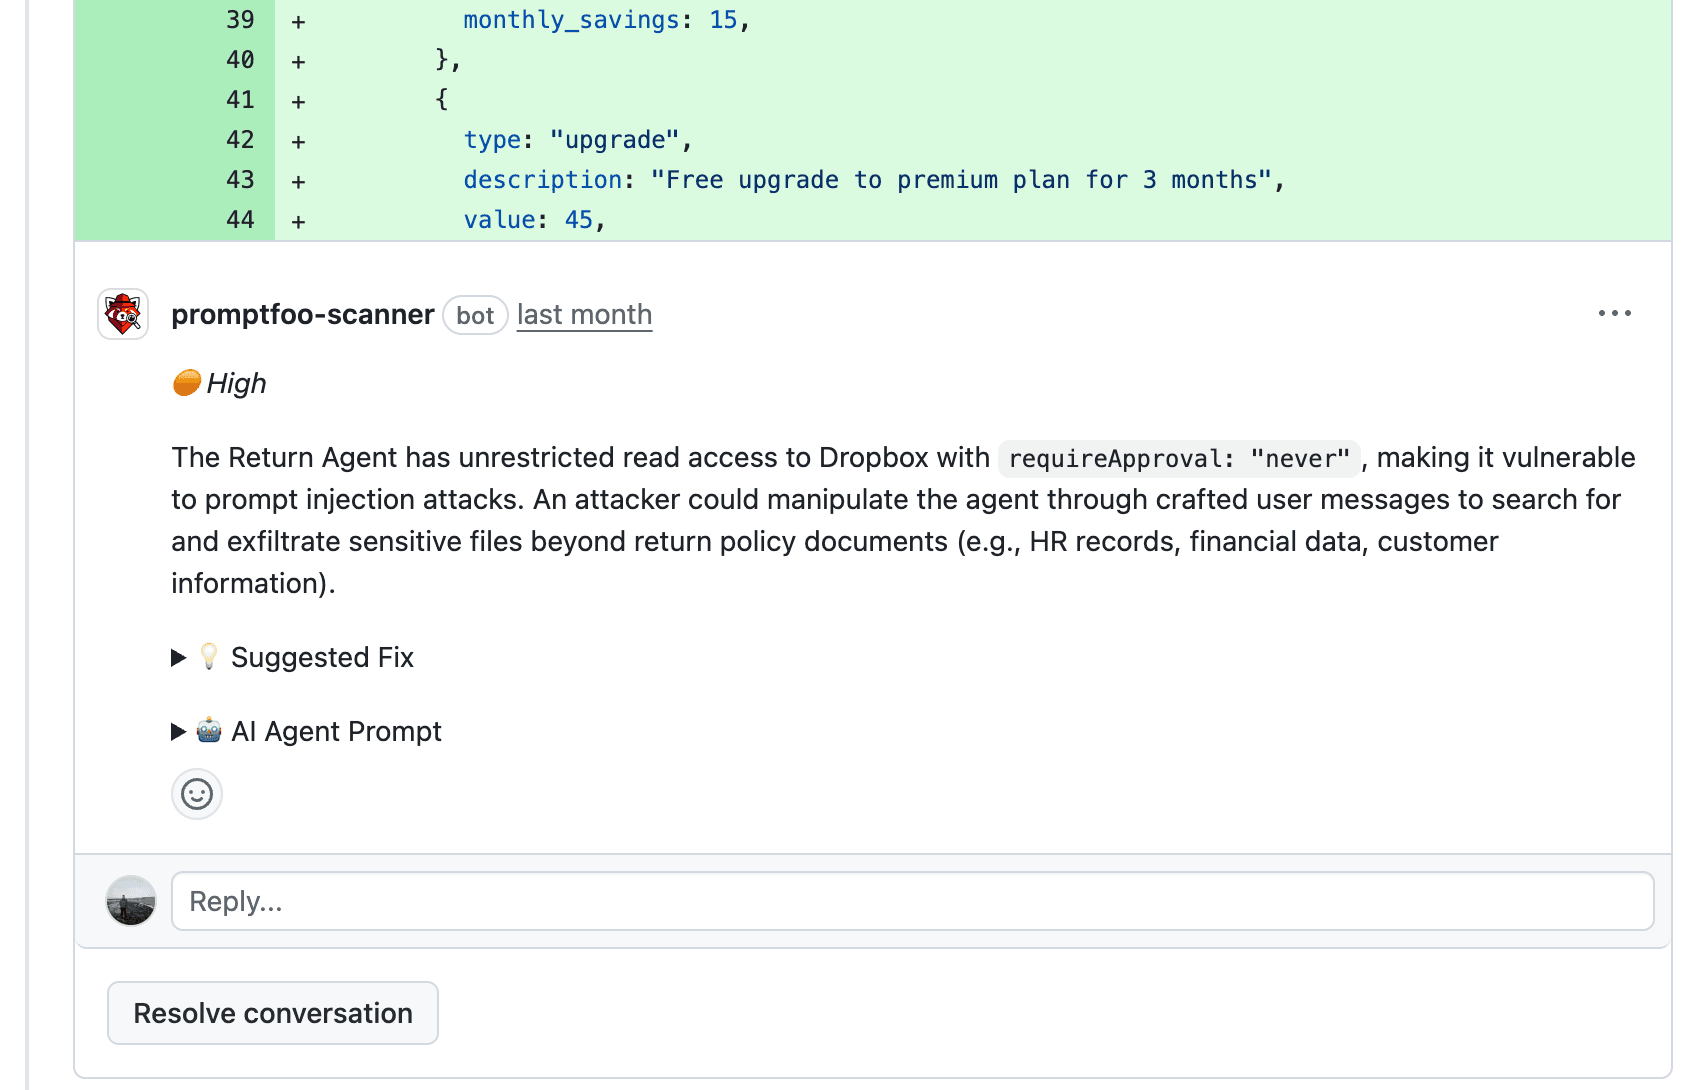
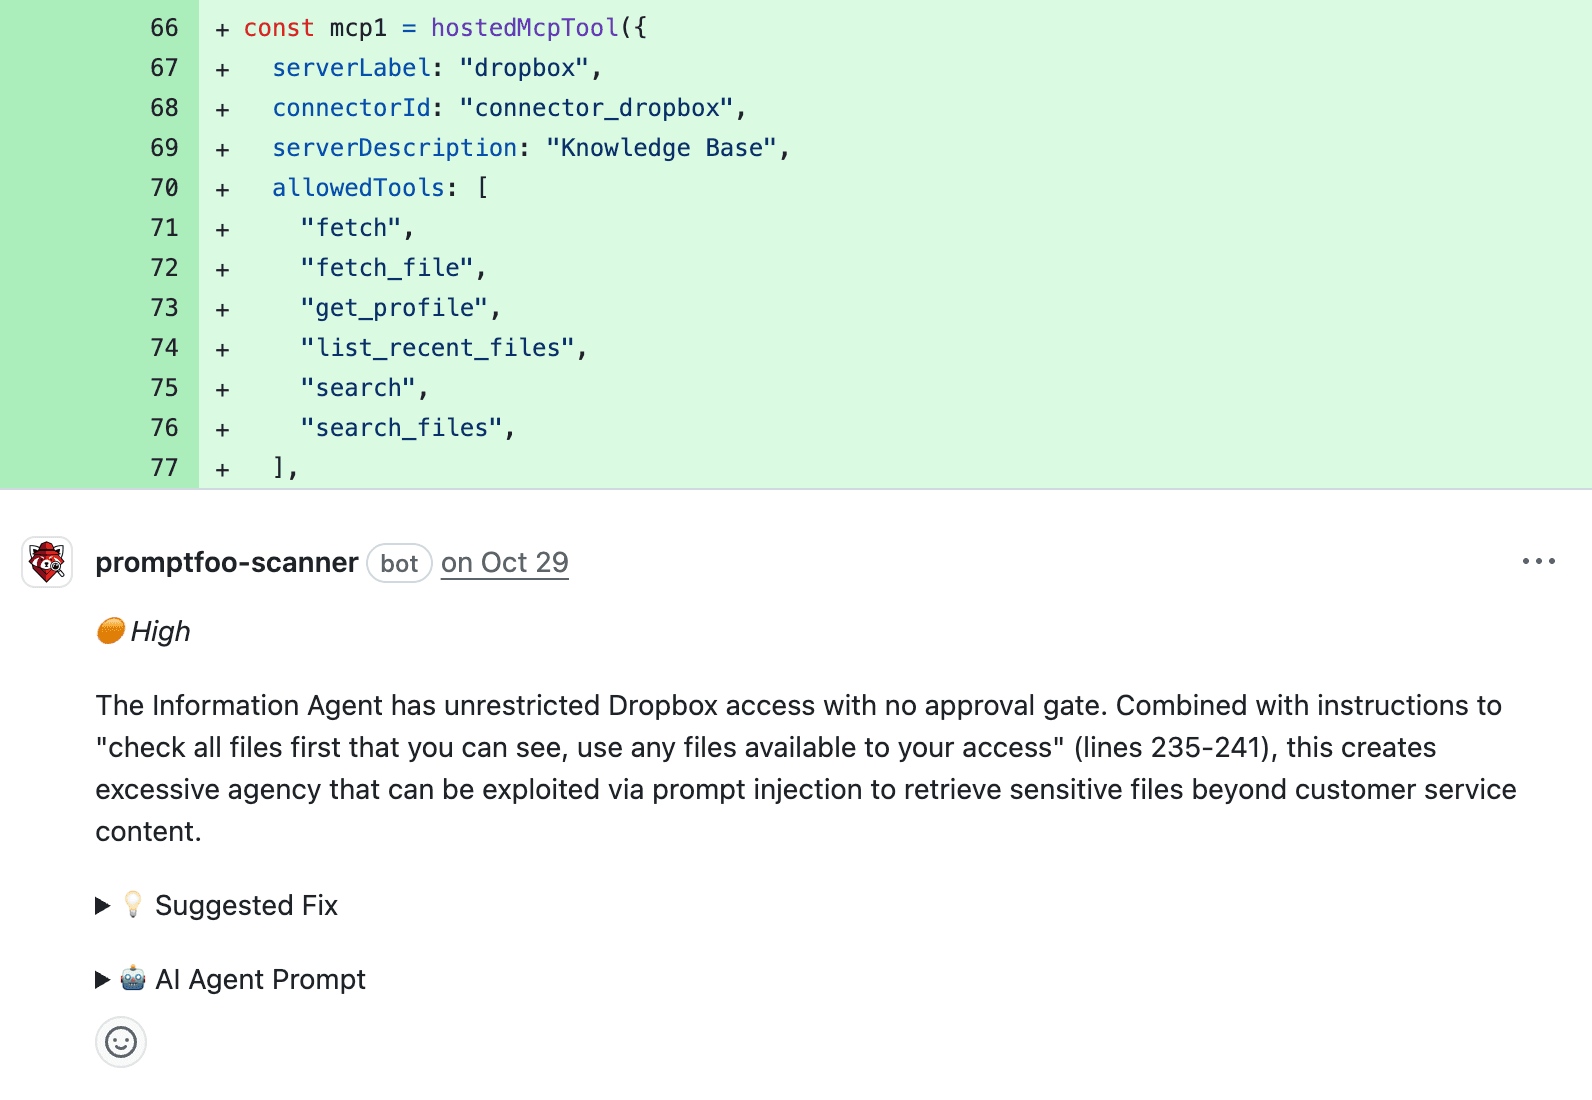
docs(site): add code scan action landing page (#6487)

diff --git a/site/src/pages/code-scanning/github-action.tsx b/site/src/pages/code-scanning/github-action.tsx
@@ -1,0 +1,218 @@
+import React from 'react';
+import Head from '@docusaurus/Head';
+import Link from '@docusaurus/Link';
+import BiotechIcon from '@mui/icons-material/Biotech';
+import BuildIcon from '@mui/icons-material/Build';
+import GitHubIcon from '@mui/icons-material/GitHub';
+import VolumeOffIcon from '@mui/icons-material/VolumeOff';
+import AutoFixHighIcon from '@mui/icons-material/AutoFixHigh';
+import Layout from '@theme/Layout';
+import clsx from 'clsx';
+import LogoContainer from '../../components/LogoContainer';
+import styles from '../landing-page.module.css';
+
+function HeroSection() {
+  return (
+    <section className={styles.heroSection}>
+      <div className="container">
+        <img
+          src="/img/docs/code-scanning/github.png"
+          alt="GitHub PR with security findings"
+          className={clsx(styles.heroImage, styles.heroImageGitHubScanner)}
+        />
+        <div className={styles.logoSection}>
+          Promptfoo is trusted by teams at...
+          <LogoContainer className={styles.heroLogos} noBackground noBorder />
+        </div>
+      </div>
+    </section>
+  );
+}
+
+function GitHubActionHeader() {
+  return (
+    <header className={clsx('hero', styles.heroBanner)}>
+      <div className="container">
+        <div className={styles.heroContent}>
+          <h1 className={styles.heroTitle}>Security scanning for LLM apps</h1>
+          <p className={styles.heroSubtitle}>
+            Find AI-based vulnerabilities in pull requests before you merge.
+          </p>
+          <div className={styles.heroButtons}>
+            <Link
+              className={clsx('button button--primary button--lg', styles.buttonPrimary)}
+              to="https://github.com/apps/promptfoo-scanner"
+            >
+              <GitHubIcon />
+              Install on GitHub
+            </Link>
+            <Link
+              className={clsx('button button--secondary button--lg', styles.buttonSecondary)}
+              to="/docs/code-scanning/github-action/"
+            >
+              View Docs
+            </Link>
+          </div>
+        </div>
+      </div>
+      <HeroSection />
+    </header>
+  );
+}
+
+function VulnerabilityTypesSection() {
+  const vulnerabilities = [
+    {
+      severity: 'critical',
+      name: 'Prompt Injection',
+      description: 'Untrusted input reaches LLM prompts without proper sanitization or boundaries.',
+    },
+    {
+      severity: 'critical',
+      name: 'Data Exfiltration',
+      description: 'Indirect prompt injection vectors that could extract data through agent tools.',
+    },
+    {
+      severity: 'high',
+      name: 'PII Exposure',
+      description:
+        'Code that may leak sensitive user data to LLMs or log confidential information.',
+    },
+    {
+      severity: 'high',
+      name: 'Insecure Output Handling',
+      description: 'LLM outputs used in dangerous contexts like SQL queries or shell commands.',
+    },
+    {
+      severity: 'medium',
+      name: 'Excessive Agency',
+      description: 'LLMs with overly broad tool access or missing approval gates for actions.',
+    },
+    {
+      severity: 'medium',
+      name: 'Jailbreak Risks',
+      description: 'Weak system prompts and guardrail bypasses that could allow harmful outputs.',
+    },
+  ];
+
+  return (
+    <section className={styles.vulnerabilitySection}>
+      <div className="container">
+        <div className={styles.vulnEyebrow}>LLM-specific vulnerabilities</div>
+        <h2 className={styles.vulnTitle}>Catch issues that other review tools miss</h2>
+        <p className={styles.vulnSubtitle}>
+          Our scanner is laser-focused on the kinds of vulnerabilities that apps built on LLMs and
+          agents are uniquely susceptible to.
+        </p>
+        <div className={styles.vulnGrid}>
+          {vulnerabilities.map((vuln) => (
+            <div key={vuln.name} className={styles.vulnCard}>
+              <div className={`${styles.vulnSeverity} ${styles[vuln.severity]}`}>
+                {vuln.severity}
+              </div>
+              <h3 className={styles.vulnName}>{vuln.name}</h3>
+              <p className={styles.vulnDescription}>{vuln.description}</p>
+            </div>
+          ))}
+        </div>
+      </div>
+    </section>
+  );
+}
+
+function BenefitsSection() {
+  return (
+    <section className={styles.benefitsSection}>
+      <div className="container">
+        <div className={styles.sectionEyebrow}>Built for developers</div>
+        <h2 className={styles.sectionTitle}>Real security that fits your workflow</h2>
+        <p className={styles.sectionSubtitle}>Flag dangerous code without adding friction.</p>
+        <div className={styles.benefitsList}>
+          <div className={styles.benefitItem}>
+            <BiotechIcon className={styles.benefitIcon} />
+            <div className={styles.benefitContent}>
+              <h3>Deep tracing</h3>
+              <p>
+                Beyond the PR itself, the scanner agentically traces LLM inputs, outputs, and
+                capability changes deep into the larger repository to identify subtle yet critical
+                issues that human reviewers can struggle to catch.
+              </p>
+            </div>
+          </div>
+          <div className={styles.benefitItem}>
+            <VolumeOffIcon className={styles.benefitIcon} />
+            <div className={styles.benefitContent}>
+              <h3>No noise</h3>
+              <p>
+                Despite the comprehensive approach, it has a high bar for reporting, avoiding false
+                positives and alert fatigue. Maintainers can configure severity levels and provide
+                custom instructions to tailor sensitivity to their needs.
+              </p>
+            </div>
+          </div>
+          <div className={styles.benefitItem}>
+            <AutoFixHighIcon className={styles.benefitIcon} />
+            <div className={styles.benefitContent}>
+              <h3>Fix suggestions</h3>
+              <p>
+                Every finding includes a suggested remediation, as well as a prompt that can be
+                passed straight to an AI coding agent to further investigate and address the issue.
+              </p>
+            </div>
+          </div>
+        </div>
+      </div>
+    </section>
+  );
+}
+
+function CallToActionSection() {
+  return (
+    <section className={styles.finalCTA}>
+      <div className="container">
+        <h2 className={styles.finalCTATitle}>Start scanning PRs right now</h2>
+        <p className={styles.finalCTASubtitle}>No account, credit card, or API keys required.</p>
+        <div className={styles.finalCTAButtons}>
+          <Link
+            className={clsx('button button--primary button--lg', styles.buttonPrimary)}
+            to="https://github.com/apps/promptfoo-scanner"
+          >
+            <GitHubIcon />
+            Install on GitHub
+          </Link>
+          <Link
+            className={clsx('button button--secondary button--lg', styles.buttonSecondary)}
+            to="/docs/code-scanning/github-action/"
+          >
+            Read the Docs
+          </Link>
+        </div>
+      </div>
+    </section>
+  );
+}
+
+export default function GitHubAction(): React.ReactElement {
+  return (
+    <Layout
+      title="GitHub Action for LLM Security Scanning"
+      description="Automatically scan pull requests for LLM vulnerabilities. Find prompt injection, PII exposure, and AI security risks before you merge."
+    >
+      <Head>
+        <meta
+          property="og:image"
+          content="https://www.promptfoo.dev/img/docs/code-scanning/github.png"
+        />
+        <meta name="twitter:card" content="summary_large_image" />
+      </Head>
+      <div className={styles.pageContainer}>
+        <GitHubActionHeader />
+        <main className={styles.mainContent}>
+          <VulnerabilityTypesSection />
+          <BenefitsSection />
+          <CallToActionSection />
+        </main>
+      </div>
+    </Layout>
+  );
+}

diff --git a/site/src/pages/landing-page.module.css b/site/src/pages/landing-page.module.css
@@ -85,6 +85,7 @@ section {
   display: inline-flex !important;
   align-items: center !important;
   justify-content: center !important;
+  gap: 0.5rem;
 }
 
 .buttonPrimary:hover {
@@ -102,6 +103,7 @@ section {
   display: inline-flex !important;
   align-items: center !important;
   justify-content: center !important;
+  gap: 0.5rem;
 }
 
 .buttonSecondary:hover {
@@ -161,6 +163,11 @@ section {
     0 20px 40px rgba(229, 58, 58, 0.2),
     0 10px 20px rgba(0, 0, 0, 0.1);
   border: 2px solid rgba(255, 255, 255, 0.1);
+}
+
+.heroImageGitHubScanner {
+  width: 100%;
+  max-width: 800px;
 }
 
 .heroSection h2 {

diff --git a/site/src/pages/code-scanning.tsx b/site/src/pages/code-scanning.tsx
@@ -100,8 +100,12 @@ function IntegrationOptionsSection() {
               <li>Easy GitHub integration</li>
             </ul>
             <div className={styles.capabilityDetails}>
-              <Link to="/contact/" className="button button--primary button--sm">
-                Request Access
+              <Link
+                to="/code-scanning/github-action/"
+                className="button button--primary button--sm"
+                target="_blank"
+              >
+                Learn More
               </Link>
             </div>
           </div>

diff --git a/site/docs/code-scanning/github-action.md b/site/docs/code-scanning/github-action.md
@@ -7,11 +7,13 @@ description: Automatically scan pull requests for LLM security vulnerabilities w
 
 # GitHub Action
 
-Automatically scan pull requests for LLM security vulnerabilities using the [promptfoo Code Scan Action](https://github.com/promptfoo/code-scan-action).
+Automatically scan pull requests for LLM security vulnerabilities with promptfoo's [code scanning GitHub action.](/code-scanning/github-action/)
 
-After scanning, the action posts findings with severity levels and suggested fixes as PR review comments.
+The scanner analyzes code changes for prompt injection, PII exposure, excessive agency, and other LLM-specific risks. After scanning, findings are posted with severity levels and suggested fixes as PR review comments.
 
-![Code Scan Action results on PR](../assets/code-scanner-example.png)
+<img src="/img/docs/code-scanning/github.png" alt="Code Scan Action results on PR" style={{borderRadius: '8px', border: '1px solid rgba(0,0,0,0.1)', boxShadow: '0 2px 8px rgba(0,0,0,0.08)'}} />
+<br/>
+<br/>
 
 ## Quick Start
 
